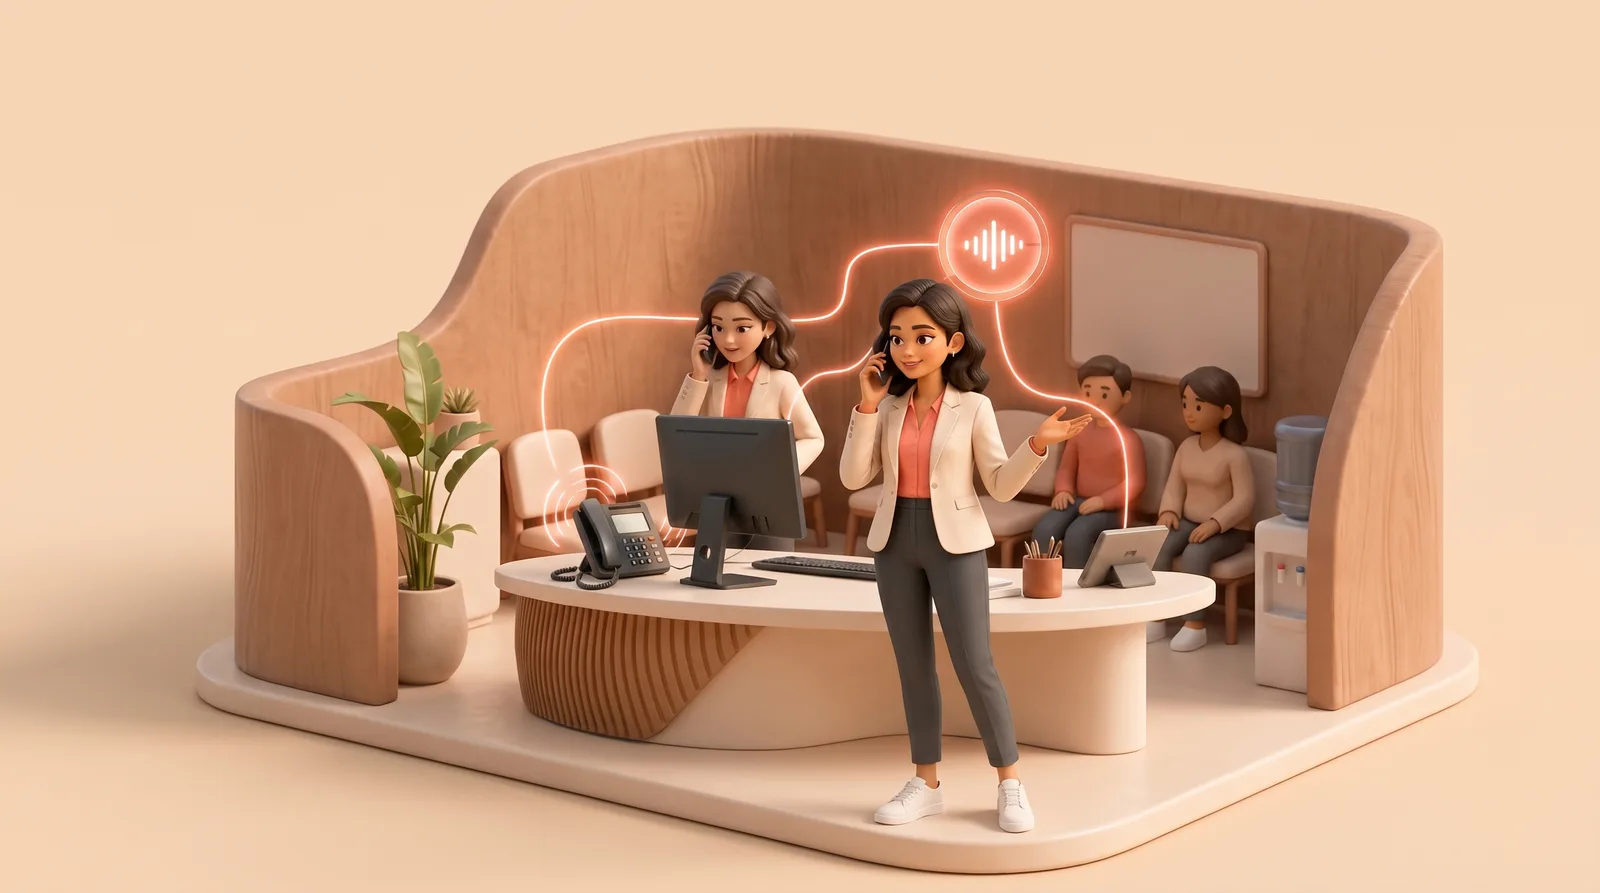
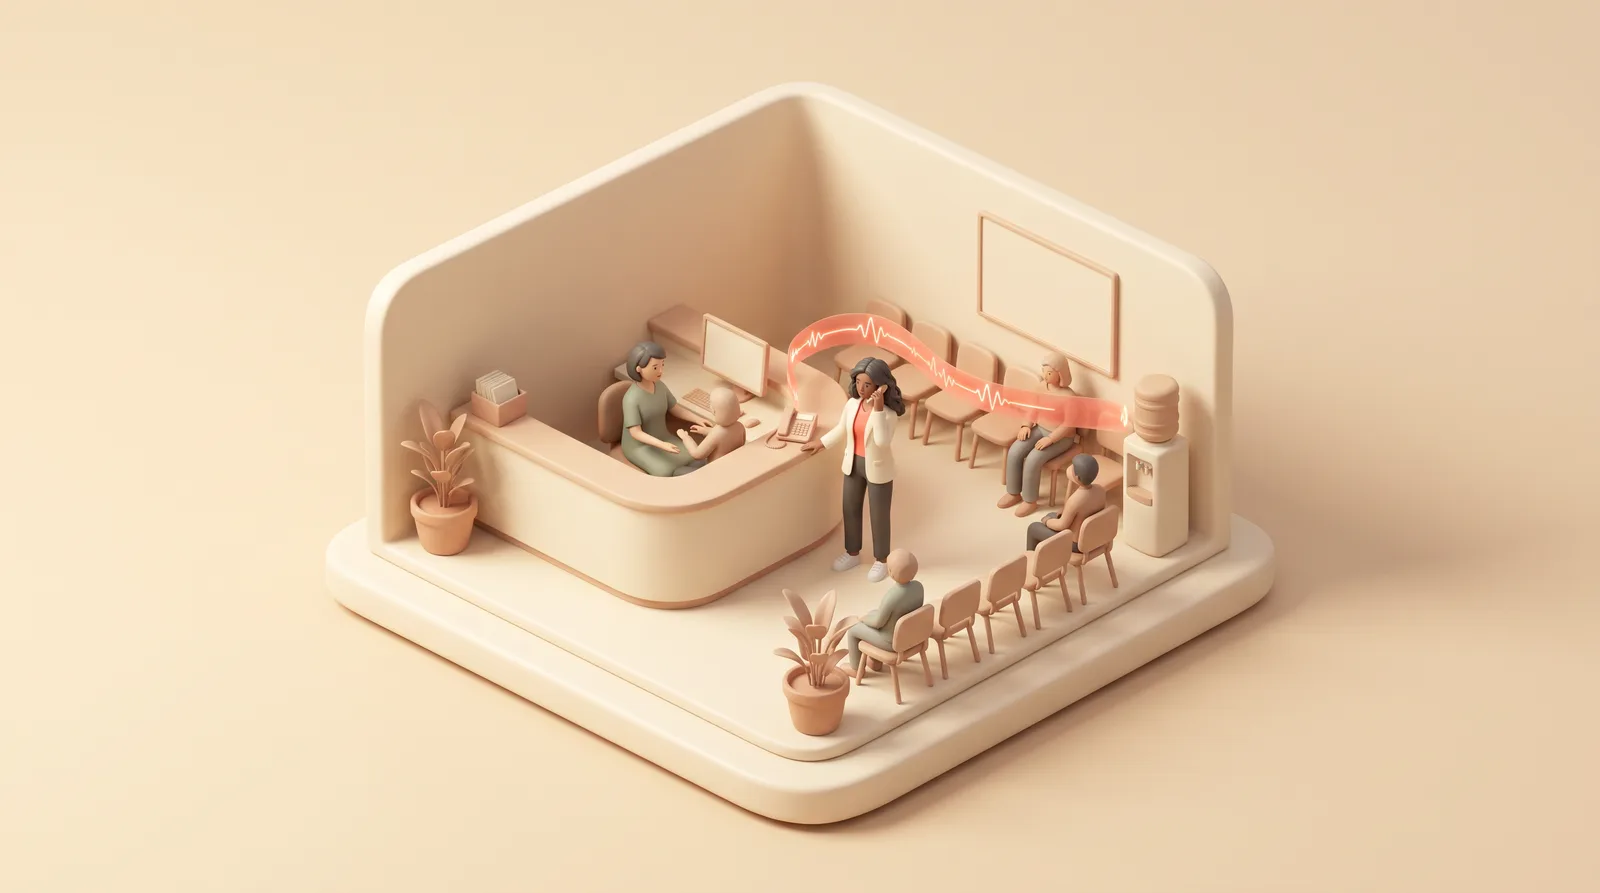
Land the clinic with one operator (#12)
The set render put two figures in the clinic both dressed as the recurring
operator, because the prompt asked for her "beside a busy human receptionist"
without describing the receptionist and the mascot reference drove both.

The operator is now stated as an exclusion — she is the only cream blazer — and
the receptionist is described outright as seated, short-haired and in sage
green. Ground resampled from the new plate.

diff --git a/components/story/ScrollStory.tsx b/components/story/ScrollStory.tsx
@@ -438,7 +438,7 @@ function ClinicMotion() {
 }
 
 const VERTICAL_PLATE: Record<string, { src: string; blend: 'strong' | 'soft'; ground: string }> = {
-  clinics: { src: '/media/story/decibyl-room-02-the-clinic.webp', blend: 'soft', ground: '#f6d5b6' },
+  clinics: { src: '/media/story/decibyl-room-02-the-clinic.webp', blend: 'soft', ground: '#eed6b6' },
   'real-estate': { src: '/media/story/decibyl-room-03-property-leads.webp', blend: 'soft', ground: '#f1cfac' },
   'd2c-ndr-recovery': { src: '/media/story/decibyl-room-04-commerce-support.webp', blend: 'soft', ground: '#eed3b5' },
 };
